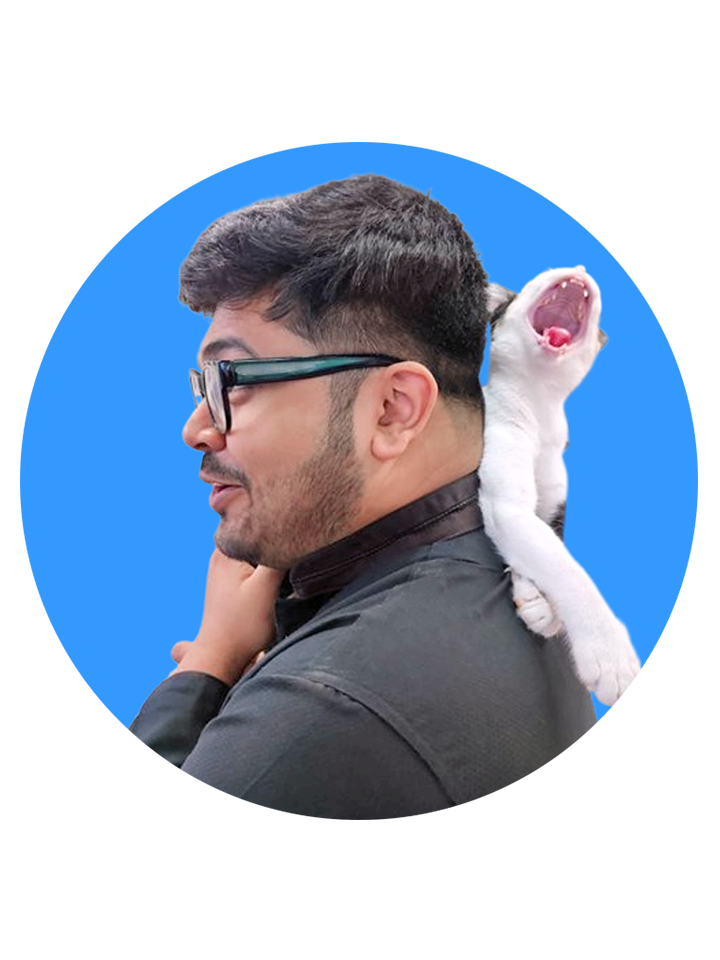
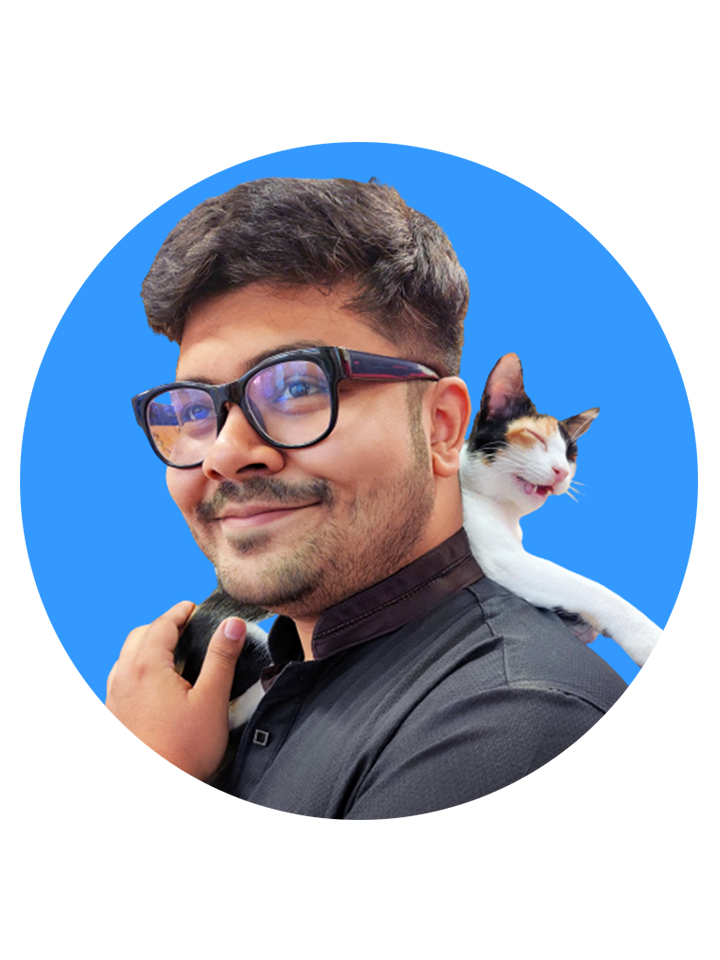
V6

diff --git a/index.html b/index.html
@@ -6,6 +6,7 @@
         <meta name="description" content="">
         <meta name="author" content="TemplateMo">
         <title>Anan Faiyaz</title>
+        <link rel="icon" href="images/favicon.ico" type="images/x-icon" />
         <!-- CSS FILES -->
         <link rel="preconnect" href="https://fonts.googleapis.com">
         <link rel="preconnect" href="https://fonts.gstatic.com" crossorigin>
@@ -83,7 +84,7 @@
                         <div class="col-lg-7 col-12">
                             <div class="hero-text">
                                 <div class="hero-title-wrap d-flex align-items-center mb-4">
-                                    <img src="images/happy-bearded-young-man.jpg" class="avatar-image avatar-image-large img-fluid" alt="">
+                                    <img src="images/anan3.jpg" class="avatar-image avatar-image-large img-fluid" alt="">
 
                                     <h1 class="hero-title ms-3 mb-0">Hey There!</h1>
                                 </div>
@@ -101,7 +102,7 @@
                     </div>
                 </div>
 
-                <svg xmlns="http://www.w3.org/2000/svg" viewBox="0 0 1440 320"><path fill="#535da1" fill-opacity="1" d="M0,160L24,160C48,160,96,160,144,138.7C192,117,240,75,288,64C336,53,384,75,432,106.7C480,139,528,181,576,208C624,235,672,245,720,240C768,235,816,213,864,186.7C912,160,960,128,1008,133.3C1056,139,1104,181,1152,202.7C1200,224,1248,224,1296,197.3C1344,171,1392,117,1416,90.7L1440,64L1440,0L1416,0C1392,0,1344,0,1296,0C1248,0,1200,0,1152,0C1104,0,1056,0,1008,0C960,0,912,0,864,0C816,0,768,0,720,0C672,0,624,0,576,0C528,0,480,0,432,0C384,0,336,0,288,0C240,0,192,0,144,0C96,0,48,0,24,0L0,0Z"></path></svg>
+                <svg xmlns="http://www.w3.org/2000/svg" viewBox="0 0 1440 320"><path fill="#55ceff" fill-opacity="1" d="M0,160L24,160C48,160,96,160,144,138.7C192,117,240,75,288,64C336,53,384,75,432,106.7C480,139,528,181,576,208C624,235,672,245,720,240C768,235,816,213,864,186.7C912,160,960,128,1008,133.3C1056,139,1104,181,1152,202.7C1200,224,1248,224,1296,197.3C1344,171,1392,117,1416,90.7L1440,64L1440,0L1416,0C1392,0,1344,0,1296,0C1248,0,1200,0,1152,0C1104,0,1056,0,1008,0C960,0,912,0,864,0C816,0,768,0,720,0C672,0,624,0,576,0C528,0,480,0,432,0C384,0,336,0,288,0C240,0,192,0,144,0C96,0,48,0,24,0L0,0Z"></path></svg>
             </section>
 
 
@@ -110,7 +111,7 @@
                     <div class="row">
 
                         <div class="col-lg-6 col-12">
-                            <img src="images/couple-working-from-home-together-sofa.jpg" class="about-image img-fluid" alt="">
+                            <img src="images/DW.JPG" class="about-image img-fluid" alt="">
                         </div>
 
                         <div class="col-lg-6 col-12 mt-5 mt-lg-0">
@@ -119,14 +120,14 @@
                                 <div class="section-title-wrap d-flex justify-content-end align-items-center mb-4">
                                     <h2 class="text-white me-4 mb-0">My Story</h2>
 
-                                    <img src="images/happy-bearded-young-man.jpg" class="avatar-image img-fluid" alt="">
+                                    <img src="images/anan3.jpg" class="avatar-image img-fluid" alt="">
                                 </div>
 
-                                <h3 class="pt-2 mb-3">a little bit about Joshua</h3>
+                                <h3 class="pt-2 mb-3">a little bit about myself</h3>
 
-                                <p>This one-page HTML portfolio is provided by <a href="https://templatemo.com" target="_blank">TemplateMo</a>. This layout is based on Bootstrap v5.1.3 CSS and JS libraries. Image credits go to <a href="https://unsplash.com" target="_blank">Unsplash</a> and <a href="https://freepik.com" target="_blank">FreePik</a> for images used in this page.</p>
+                                <p>A Student. A Maker. A Designer. And, A Tech & Business Afficionado. <a href="xylomylo.github.io" target="_blank"></a>. </p>
 
-                                <p>You are allowed to use this template for your websites. You are not allowed to redistribute the template ZIP file on any other website. Please <a href="https://templatemo.com/contact" target="_blank">contact us</a> for more info.</p>
+                                <p>A proven natural in becoming natural in anything & everything, with tremendous amount of work experience as a 4th year undergrad student. Currently, exploring the limits of my capabilities.</p>
                             </div>
                         </div>
 
@@ -137,26 +138,26 @@
             <section class="featured section-padding">
                 <div class="container">
                     <div class="row">
-
+                    
                         <div class="col-lg-6 col-12">
                             <div class="profile-thumb">
                                 <div class="profile-title">
-                                    <h4 class="mb-0">Information</h4>
+                                    <h4 class="mb-0">Experience & Interests</h4>
                                 </div>
-
+                                
                                 <div class="profile-body">
                                     <p>
-                                        <span class="profile-small-title">Name</span> 
-                                        <span>Joshua Morgan</span>
+                                        <span class="profile-small-title">Education</span> 
+                                        <span>Undergraduate Engineering/span>
                                     </p>
 
                                     <p>
-                                        <span class="profile-small-title">Birthday</span> 
-                                        <span>Aug 12, 1986</span>
+                                        <span class="profile-small-title">Major</span> 
+                                        <span>Electronics & Electrical Engineering</span>
                                     </p>
 
                                     <p>
-                                        <span class="profile-small-title">Phone</span> 
+                                        <span class="profile-small-title">Major</span> 
                                          <span><a href="tel: 305-240-9671">120-240-9600</a></span>
                                     </p>
 
@@ -169,7 +170,7 @@
                         </div>
 
                         <div class="col-lg-6 col-12 mt-5 mt-lg-0">
-                            <div class="about-thumb">
+                            <!--div class="about-thumb">
                                 <div class="row">
                                     <div class="col-lg-6 col-6 featured-border-bottom py-2">
                                         <strong class="featured-numbers">20+</strong>
@@ -195,7 +196,7 @@
                                         <p class="featured-text">Digital Awards</p>
                                     </div>
                                 </div>
-                            </div>
+                            </div-->
                         </div>
 
                     </div>
@@ -208,9 +209,9 @@
                     <div class="row align-items-center">
 
                         <div class="col-lg-12 col-12">
-                            <h3 class="text-center mb-5">Companies I've had worked</h3>
+                            <h3 class="text-center mb-5">Prior Affiliations</h3>
                         </div>
-
+                        <!--
                         <div class="col-lg-2 col-4 ms-auto clients-item-height">
                             <img src="images/clients/cachet.svg" class="clients-image img-fluid" alt="">
                         </div>
@@ -230,13 +231,13 @@
                         <div class="col-lg-2 col-4 me-auto clients-item-height">
                             <img src="images/clients/profil-rejser.svg" class="clients-image img-fluid" alt="">
                         </div>
-
+                        -->
                     </div>
                 </div>
             </section>
 
 
-            <section class="services section-padding" id="section_3">
+            <!--section class="services section-padding" id="section_3">
                 <div class="container">
                     <div class="row">
 
@@ -335,7 +336,7 @@
                         </div>
                     </div>
                 </div>
-            </section>
+            </section-->
 
 
             <section class="projects section-padding" id="section_4">
@@ -355,9 +356,9 @@
                         <div class="col-lg-4 col-md-6 col-12">
                             <div class="projects-thumb">
                                 <div class="projects-info">
-                                    <small class="projects-tag">Branding</small>
+                                    <small class="projects-tag">Robotics</small>
 
-                                    <h3 class="projects-title">Zoik agency</h3>
+                                    <h3 class="projects-title">Line-Follower</h3>
                                 </div>
 
                                 <a href="images/projects/nikhil-KO4io-eCAXA-unsplash.jpg" class="popup-image">
@@ -371,7 +372,7 @@
                                 <div class="projects-info">
                                     <small class="projects-tag">Photography</small>
 
-                                    <h3 class="projects-title">The Watch</h3>
+                                    <h3 class="projects-title">Project Bee</h3>
                                 </div>
 
                                 <a href="images/projects/the-5th-IQYR7N67dhM-unsplash.jpg" class="popup-image">
@@ -383,9 +384,9 @@
                         <div class="col-lg-4 col-md-6 col-12">
                             <div class="projects-thumb">
                                 <div class="projects-info">
-                                    <small class="projects-tag">Website</small>
+                                    <small class="projects-tag">Management</small>
 
-                                    <h3 class="projects-title">Polo</h3>
+                                    <h3 class="projects-title">NSU YES!</h3>
                                 </div>
 
                                 <a href="images/projects/true-agency-9Bjog5FZ-oc-unsplash.jpg" class="popup-image">
@@ -414,16 +415,16 @@
 
                             <div class="col-lg-3 col-md-6 col-12 pe-lg-0">
                                 <div class="contact-info contact-info-border-start d-flex flex-column">
-                                    <strong class="site-footer-title d-block mb-3">Services</strong>
+                                    <strong class="site-footer-title d-block mb-3">Interests</strong>
 
                                     <ul class="footer-menu">
-                                        <li class="footer-menu-item"><a href="#" class="footer-menu-link">Websites</a></li>
+                                        <li class="footer-menu-item"><a href="#" class="footer-menu-link">Technology</a></li>
 
-                                        <li class="footer-menu-item"><a href="#" class="footer-menu-link">Branding</a></li>
+                                        <li class="footer-menu-item"><a href="#" class="footer-menu-link">Physics</a></li>
 
-                                        <li class="footer-menu-item"><a href="#" class="footer-menu-link">Ecommerce</a></li>
+                                        <li class="footer-menu-item"><a href="#" class="footer-menu-link">Design</a></li>
 
-                                        <li class="footer-menu-item"><a href="#" class="footer-menu-link">SEO</a></li>
+                                        <li class="footer-menu-item"><a href="#" class="footer-menu-link">Robotics</a></li>
                                     </ul>
 
                                     <strong class="site-footer-title d-block mt-4 mb-3">Stay connected</strong>
@@ -440,7 +441,7 @@
 
                                     <strong class="site-footer-title d-block mt-4 mb-3">Start a project</strong>
 
-                                    <p class="mb-0">I’m available for freelance projects</p>
+                                    <p class="mb-0">I'm available for freelance projects</p>
                                 </div>
                             </div>
 
@@ -449,22 +450,22 @@
                                     <strong class="site-footer-title d-block mb-3">About</strong>
 
                                     <p class="mb-2">
-                                        Joshua is a professional web developer. Feel free to get in touch with me.
+                                        I also accept independent project contracts. Feel free to get in touch with me.
                               </p>
 
                                     <strong class="site-footer-title d-block mt-4 mb-3">Email</strong>
 
                                     <p>
-                                        <a href="mailto:hello@josh.design">
-                                            hello@josh.design
+                                        <a href="mailto:anan.faiyaz@gmail.com">
+                                            anan.faiyaz@gmail.com
                                         </a>
                                     </p>
 
                                     <strong class="site-footer-title d-block mt-4 mb-3">Call</strong>
 
                                     <p class="mb-0">
-                                        <a href="tel: 120-240-9600">
-                                            120-240-9600
+                                        <a href="tel: +8801931308026">
+                                            +880 193-130-8026
                                         </a>
                                     </p>
                                 </div>
@@ -495,7 +496,7 @@
 
                                                 <label class="form-check-label" for="inlineCheckbox1">
                                                     <i class="bi-globe form-check-icon"></i>
-                                                    <span class="form-check-label-text">Websites</span>
+                                                    <span class="form-check-label-text">Robotics</span>
                                                 </label>
                                           </div>
                                         </div>
@@ -506,7 +507,7 @@
 
                                                 <label class="form-check-label" for="inlineCheckbox2">
                                                     <i class="bi-lightbulb form-check-icon"></i>
-                                                    <span class="form-check-label-text">Branding</span>
+                                                    <span class="form-check-label-text">Event Management</span>
                                                 </label>
                                             </div>
                                         </div>
@@ -517,7 +518,7 @@
 
                                                 <label class="form-check-label" for="inlineCheckbox3">
                                                     <i class="bi-phone form-check-icon"></i>
-                                                    <span class="form-check-label-text">Ecommerce</span>
+                                                    <span class="form-check-label-text">Photography</span>
                                                 </label>
                                             </div>
                                         </div>
@@ -528,7 +529,7 @@
 
                                                 <label class="form-check-label" for="inlineCheckbox4">
                                                     <i class="bi-google form-check-icon"></i>
-                                                    <span class="form-check-label-text">SEO</span>
+                                                    <span class="form-check-label-text">Design/Editing</span>
                                                 </label>
                                             </div>
                                         </div>
@@ -563,7 +564,7 @@
                     <div class="col-lg-12 col-12">
                         <div class="copyright-text-wrap">
                             <p class="mb-0">
-                                <span class="copyright-text">Copyright © 2036 <a href="#">First Portfolio</a> Company. All rights reserved.</span>
+                                <span class="copyright-text">Copyright © 2023 <a href="#">Anan Faiyaz Radin</a>. All rights reserved.</span>
                                 Design: 
                                 <a rel="sponsored" href="https://templatemo.com" target="_blank">TemplateMo</a>
                             </p>

diff --git a/css/templatemo-first-portfolio-style.css b/css/templatemo-first-portfolio-style.css
@@ -13,7 +13,7 @@ https://templatemo.com/tm-578-first-portfolio
 :root {
   --white-color:                  #f5f5f5;
   --primary-color:                #458af1;
-  --secondary-color:              #1c55aa;
+  --secondary-color:              #0a48a5;
   --section-bg-color:             #f9f9f9;
   --dark-color:                   #000000;
   --p-color:                      #717275;
@@ -158,12 +158,13 @@ strong {
   border-radius: var(--border-radius-large);
   width: 160px;
   height: 160px;
+  scale: 80%;
   object-fit: cover;
 }
 
 .avatar-image-large {
-  width: 90.4px;
-  height: 90.4px;
+  width: 70.4px;
+  height: 70.4px;
 }
 
 
@@ -510,10 +511,10 @@ strong {
   width: 350px;
   height: 350px;
   position: absolute;
-  z-index: 0;
-  top: 0;
+  z-index: 22;
+  top: -22%;
   right: 0;
-  left: 0;
+  left: 20%;
   margin: auto;
   pointer-events: none;
 }
@@ -521,7 +522,8 @@ strong {
 .hero-image {
   position: absolute;
   z-index: 22;
-  top: 0;
+  top: -90%;
+  scale:80%;
   width: 100%;
   min-width: 550px;
 }
